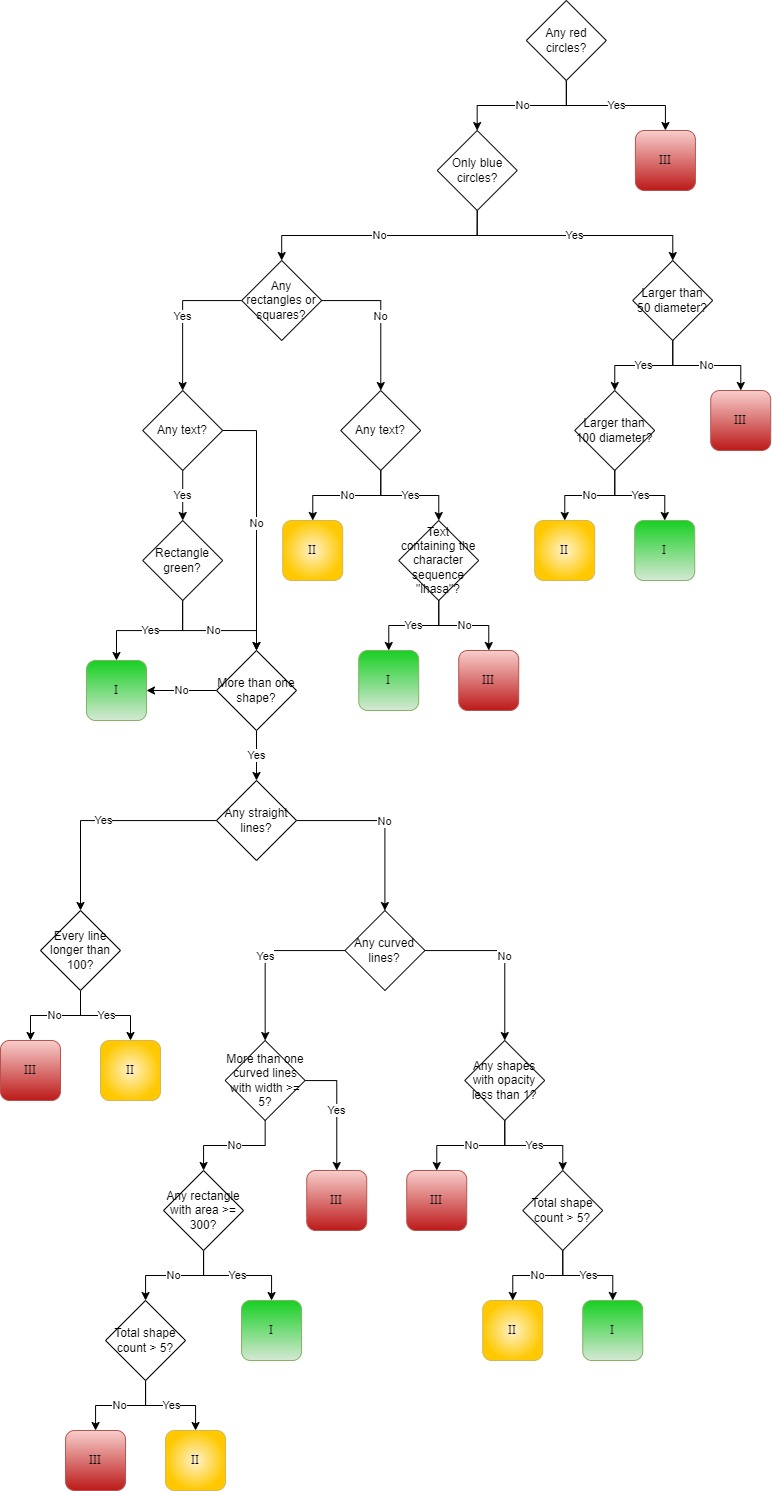
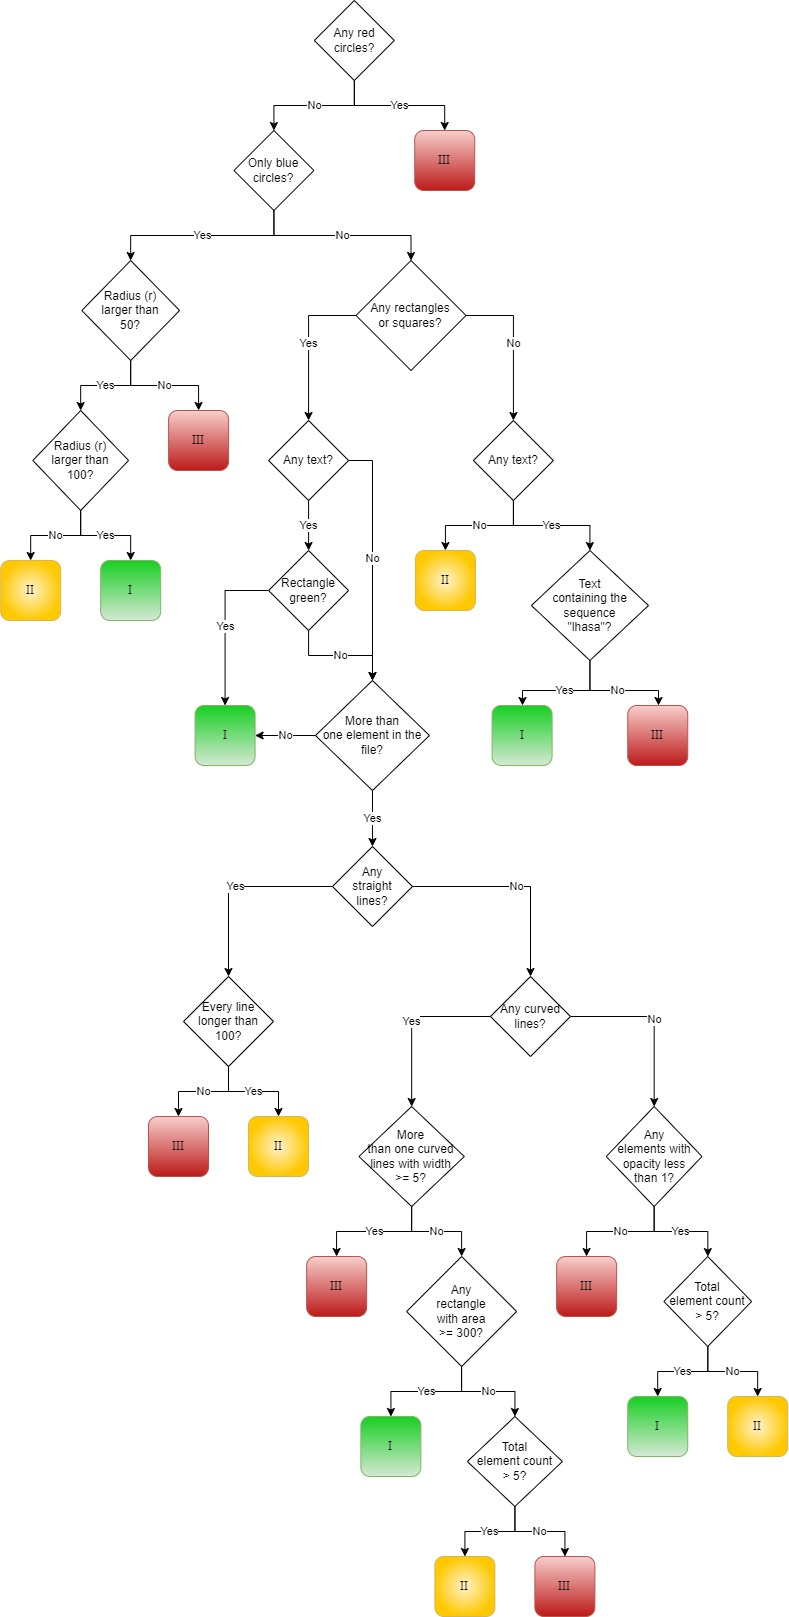
Fix Python quick start paths

diff --git a/README.md b/README.md
@@ -33,7 +33,10 @@ The resulting categories in our workflow match the ones for the real classificat
 
 Each example file is a simple example for each of the paths and has an expected category. The test data files are for checking your code “in the wild” with more complex objects.
 
-For simplicity, the colours used to start with will be named, as will shapes.
+For simplicity, the colours used will be named, as will shape elements. For example:
+* color uses "red" rather than "#FF0000".
+* circles use "circle" rather than "ellipsis" or "path".
+* rectangles use "rect" rather than "polygon" or "path".
 
 The workflow looks like this:
 
@@ -51,11 +54,13 @@ a)	Pass in your input file/folder to your code
 b)	Read the contents of your input file
 c)	Check for any red circles
 
+#### _There are some quick start helper projects for Python, JavaScript and Java in the repo._
+
 Part A is a common task required in software development, and there will be plenty of help for this available online if required.
 
 There are a few options you could take for part B – either reading the file manually to parse the components present or using a library to read the file for you. To allow you to focus on the logic of the workflow rather than file reading, I would recommend using a library if possible. Some good libraries would be:
 *	For Python, [Beautiful Soup](https://pypi.org/project/beautifulsoup4/) or [svgelements](https://pypi.org/project/svgelements/)
-*	For JavaScript, [svg-parser](https://www.npmjs.com/package/svg-parser)
+*	For JavaScript, [svg-parser](https://www.npmjs.com/package/svg-parser) or [xml2js](https://www.npmjs.com/package/xml2js)
 *	For Java, [svgSalamander](https://central.sonatype.com/artifact/guru.nidi.com.kitfox/svgSalamander)
 
 Once your code can read in the files, now you’re ready for part C – the first part of the workflow!
